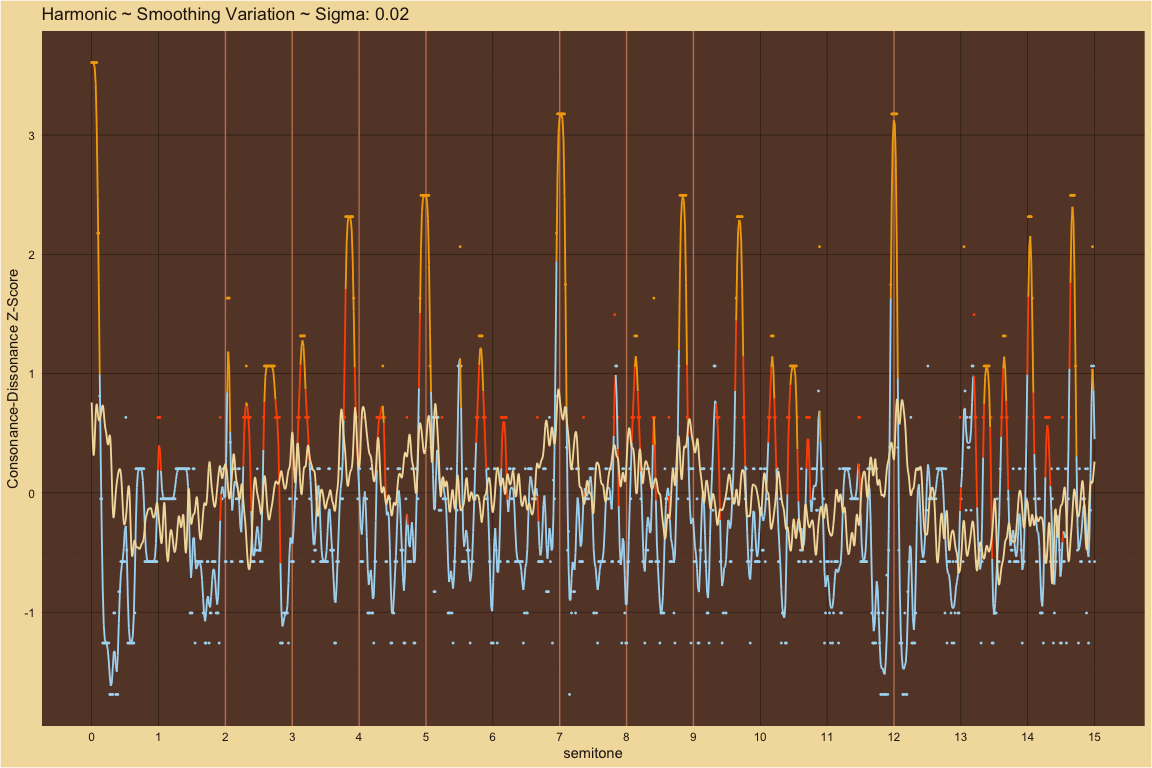
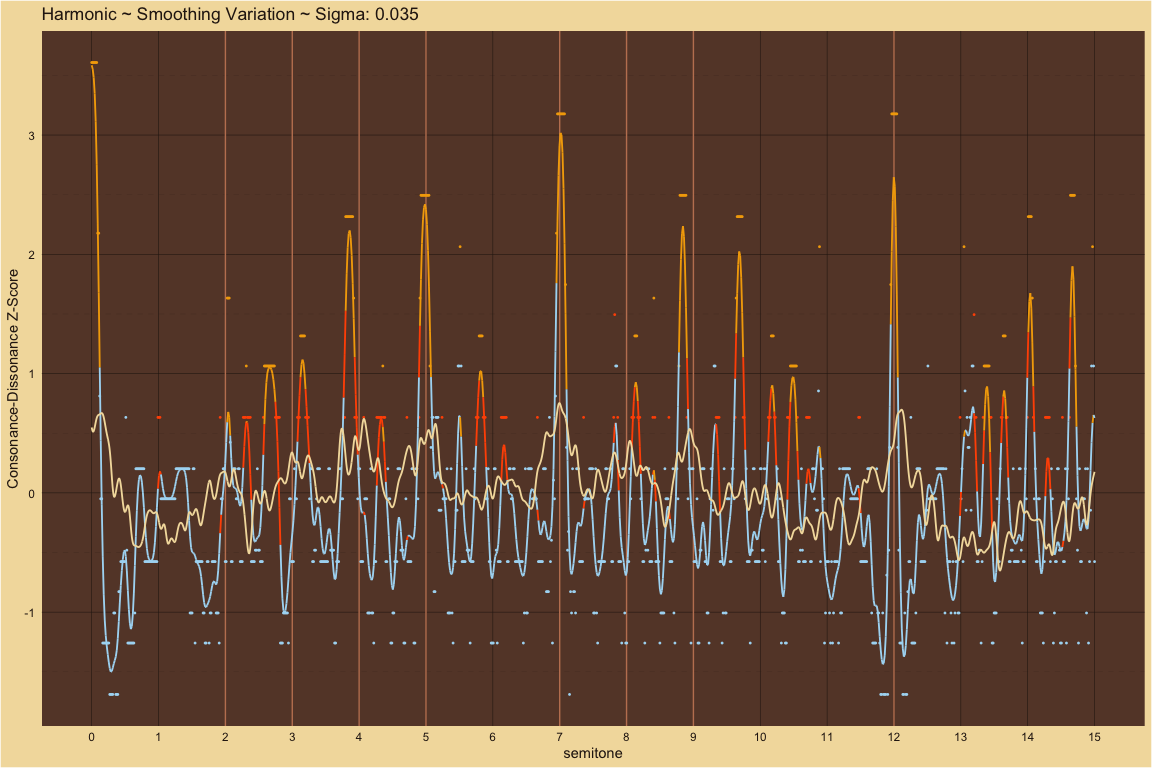
uncertainty principles of music perception

diff --git a/man/thoughts/Ratios-and-Inversions.html b/man/thoughts/Ratios-and-Inversions.html
@@ -352,6 +352,16 @@ display: none;
 </div>
 
 
+<div id="period-length-uncertainty" class="section level1">
+<h1>Period Length Uncertainty</h1>
+<p>Frequency and wavelength are simple inversions. Why would the signal
+processing estimate using wavelengths give a different results than the
+signal processing estimate using frequencies?<br />
+</p>
+<p>Is it a limitation of the sensors or the processing of the sensors’
+signals by higher parts of the perception system?<br />
+</p>
+</div>
 <div id="why-is-mami.codis-wavelength-tolerance-twice-the-frequency-tolerance" class="section level1">
 <h1>Why is MaMi.CoDi’s wavelength tolerance twice the frequency
 tolerance?<br />

diff --git a/README.md b/README.md
@@ -17,11 +17,12 @@ Jacoby.
 ### Harmonic ~ Partials: 10
 
 For 10 harmonics, behavioral results and theoretical predictions agree.
-With the default smoothing parameter from the large-scale behavioral
+With the broad smoothing parameter from the large-scale behavioral
 study, the smoothed theoretical peaks at M2 and P8 are relatively lower
 than the theoretical predictions plotted as points. In a plot below, we
-temporarily adjust the smoothing parameter to show how the behavioral
-and theoretical curves change.
+use the narrow smoothing parameter from the large-scale behavioral study
+to see how the theoretical curve changes with respect to the theoretical
+predictions.
 
 | detected_pseudo_octave | ignore_amplitudes_below | wavelength_tolerance | frequency_tolerance | smoothing_sigma |
 |:-----------------------|:------------------------|:---------------------|:--------------------|----------------:|
@@ -29,16 +30,17 @@ and theoretical curves change.
 
 ![](man/figures/README-unnamed-chunk-4-1.png)<!-- -->
 
-### Harmonic ~ Smoothing Variation ~ Sigma: 0.02
+### Harmonic ~ Smoothing Variation ~ Sigma: 0.035
 
-With a smaller smoothing parameter (0.02 versus 0.2), the smoothed peaks
-at M2 and P8 more closely align with the theoretical predictions plotted
-as points. However, for the remaining plots we will continue to use the
-larger smoothing parameter from the large-scale behavioral study.
+With the narrow smoothing parameter (0.035 versus 0.2) from the
+large-scale behavioral study, the smoothed peaks at M2 and P8 more
+closely align with the theoretical predictions plotted as points.
+However, for the remaining plots we will continue to use the broad
+smoothing parameter from the large-scale behavioral study.
 
 | detected_pseudo_octave | ignore_amplitudes_below | wavelength_tolerance | frequency_tolerance | smoothing_sigma |
 |:-----------------------|:------------------------|:---------------------|:--------------------|----------------:|
-| 2                      | 0.03                    | 0.1                  | 0.05                |            0.02 |
+| 2                      | 0.03                    | 0.1                  | 0.05                |           0.035 |
 
 ![](man/figures/README-unnamed-chunk-4-2.png)<!-- -->
 
